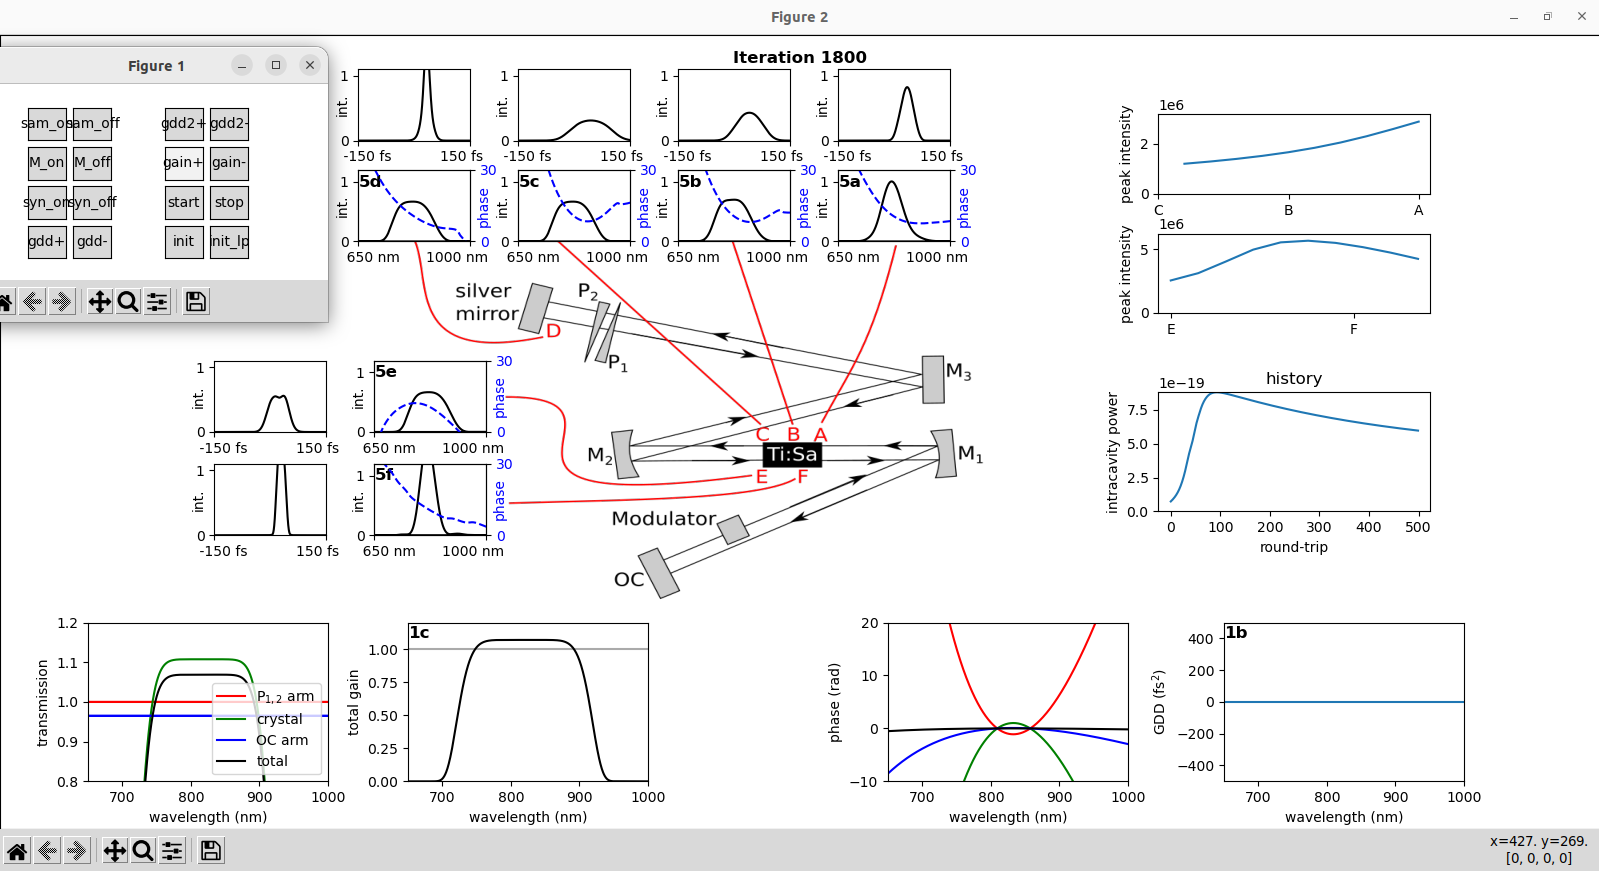
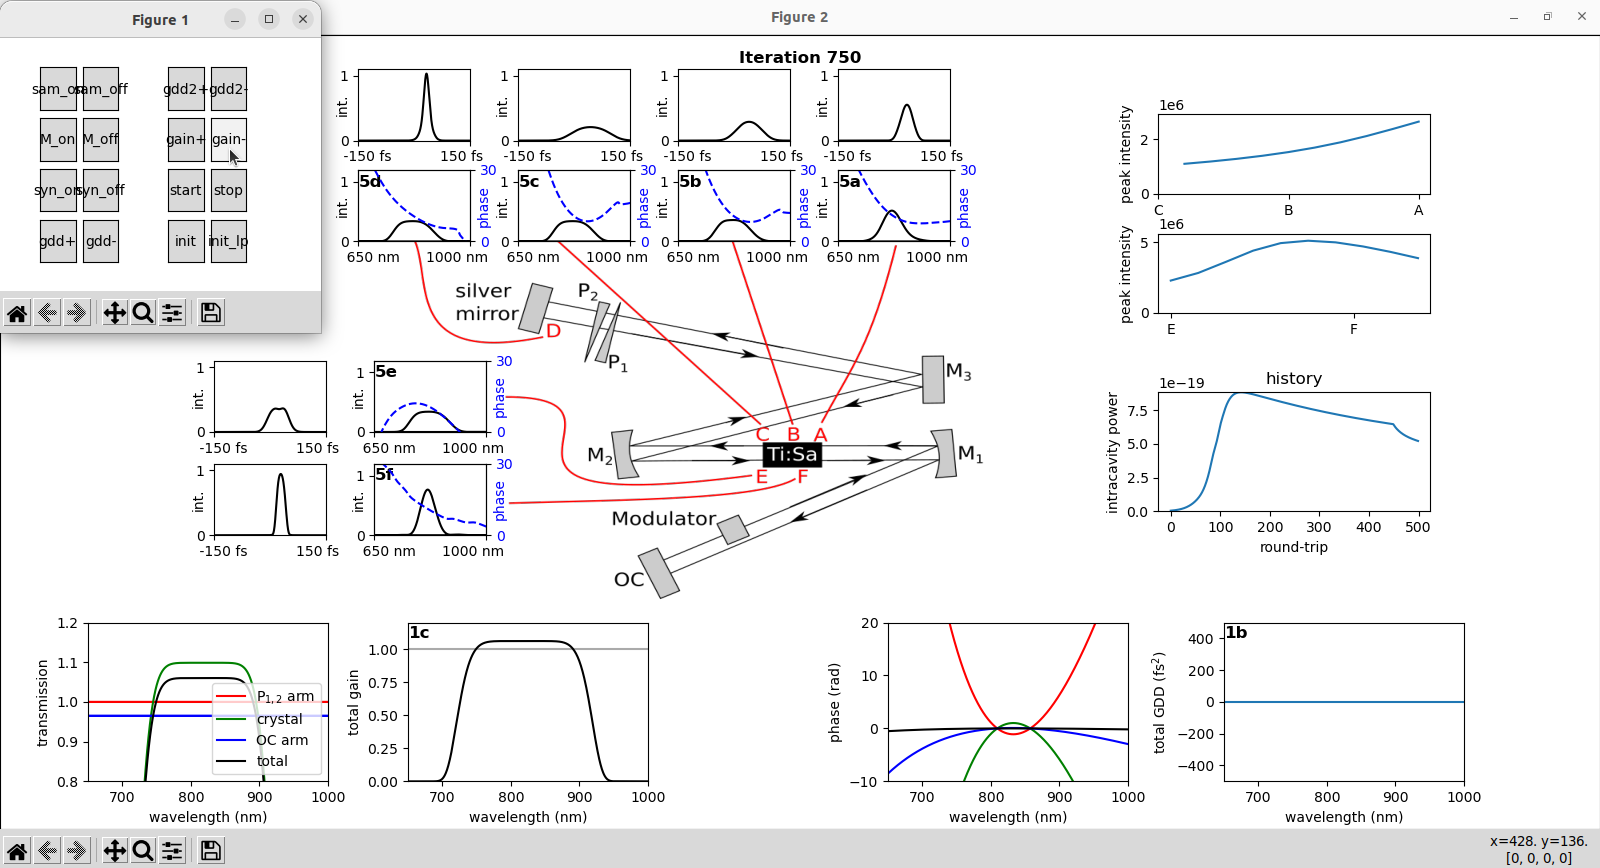
runs on windows + small improvements

diff --git a/tognetti.py b/tognetti.py
@@ -234,7 +234,7 @@ def plotter(plotter_pipe, controller_pipe):
         ax.set_xlim((650,1000))
         ax.set_ylim((-500,500))
         ax.set_xlabel("wavelength (nm)")
-        ax.set_ylabel("GDD (fs$^2$)")
+        ax.set_ylabel("total GDD (fs$^2$)")
         ax.set_title("1b", loc="left", y=.85, weight="bold")
 
         ax = fig.add_subplot(111)
@@ -262,8 +262,8 @@ def plotter(plotter_pipe, controller_pipe):
         ax.set_xlabel("round-trip")
         ax.set_ylabel("intracavity power")
 
-        Anu_max = 0.6e-10
-        At_max = 1513*1.3
+        Anu_max = 0.8e-10
+        At_max = 2.3e3
 
         positions = [
             ([.524,.74, .07, .09], [.524,.867, .07, .09], "5a"),
@@ -320,76 +320,77 @@ def plotter(plotter_pipe, controller_pipe):
 
   plt.show()
 
-Anu = 4e-15 * np.exp(-(nu_env/26e12)**2) * np.exp(-1j*(nu_env/15e12)**2)
-Anu_init = Anu.copy()
+if __name__=="__main__":
+  Anu = 4e-15 * np.exp(-(nu_env/26e12)**2) * np.exp(-1j*(nu_env/15e12)**2)
+  Anu_init = Anu.copy()
 
-plot_pipe, plotter_pipe = multiprocessing.Pipe()
-control_pipe, controller_pipe = multiprocessing.Pipe()
-plotter_process = multiprocessing.Process(target=plotter, args=(plotter_pipe,controller_pipe), daemon=True)
-plotter_process.start()
-print("started")
+  plot_pipe, plotter_pipe = multiprocessing.Pipe()
+  control_pipe, controller_pipe = multiprocessing.Pipe()
+  plotter_process = multiprocessing.Process(target=plotter, args=(plotter_pipe,controller_pipe), daemon=True)
+  plotter_process.start()
+  print("started")
 
-pwrs = [0]*500
-for i in itertools.count():
-  Anu_, Anus, peakints1, peakints2 = roundtrip(nu, Anu)
-  pwr = np.sum(abs(Anu_)**2)
-  if running: Anu = Anu_
+  pwrs = [0]*500
+  for i in itertools.count():
+    Anu_, Anus, peakints1, peakints2 = roundtrip(nu, Anu)
+    pwr = np.sum(abs(Anu_)**2)
+    if running: Anu = Anu_
 
-  pwrs = pwrs[1:]+[pwr]
+    pwrs = pwrs[1:]+[pwr]
 
-  if i%10==0: print(i)
+    if i%10==0: print(i)
 
-  if i%50==0:
-    print("sending")
-    plot_pipe.send(("plot", i,np.array(Anus), peakints1, peakints2, np.array(pwrs), gain_sapphire, phase_sapphire, loss_prismarm, phase_prismarm, loss_OCarm, phase_OCarm))
-    print("sent")
+    if i%50==0:
+      print("sending")
+      plot_pipe.send(("plot", i,np.array(Anus), peakints1, peakints2, np.array(pwrs), gain_sapphire, phase_sapphire, loss_prismarm, phase_prismarm, loss_OCarm, phase_OCarm))
+      print("sent")
 
-    while control_pipe.poll():
-      command = control_pipe.recv()
+      while control_pipe.poll():
+        command = control_pipe.recv()
 
-      if command=="sam_on": 
-        SAM = True
-      elif command=="sam_off": 
-        SAM = False
+        if command=="sam_on":
+          SAM = True
+        elif command=="sam_off":
+          SAM = False
 
-      elif command=="M_on": 
-        modulation = True
-      elif command=="M_off": 
-        modulation = False
+        elif command=="M_on":
+          modulation = True
+        elif command=="M_off":
+          modulation = False
 
-      elif command=="syn_on": 
-        synchronization = True
-      elif command=="syn_off": 
-        synchronization = False
+        elif command=="syn_on":
+          synchronization = True
+        elif command=="syn_off":
+          synchronization = False
 
-      elif command=="gain+": 
-        gain_sapphire *= 1.002
-      elif command=="gain-": 
-        gain_sapphire /= 1.002
+        elif command=="gain+":
+          gain_sapphire *= 1.002
+        elif command=="gain-":
+          gain_sapphire /= 1.002
 
-      elif command=="gdd+": 
-        phase_prismarm += gdd_to_phase(nu, 5e-30)
-      elif command=="gdd-": 
-        phase_prismarm += gdd_to_phase(nu, -5e-30)
+        elif command=="gdd+":
+          phase_prismarm += gdd_to_phase(nu, 5e-30)
+        elif command=="gdd-":
+          phase_prismarm += gdd_to_phase(nu, -5e-30)
 
-      elif command=="gdd2+": 
-        phase_OCarm += gdd_to_phase(nu, 5e-30)
-      elif command=="gdd2-": 
-        phase_OCarm -= gdd_to_phase(nu, 5e-30)
+        elif command=="gdd2+":
+          phase_OCarm += gdd_to_phase(nu, 5e-30)
+        elif command=="gdd2-":
+          phase_OCarm -= gdd_to_phase(nu, 5e-30)
 
-      elif command=="start": 
-        running = True
-      elif command=="stop": 
-        running = False
+        elif command=="start":
+          running = True
+        elif command=="stop":
+          running = False
 
-      elif command=="init": 
-        Anu = Anu_init
-      elif command=="init_lp": 
-        Anu = Anu_init * 0.01
-      else:
-        raise ValueError("unknown command {}".format(command))
+        elif command=="init":
+          Anu = Anu_init
+        elif command=="init_lp":
+          Anu = Anu_init * 0.01
+        else:
+          raise ValueError("unknown command {}".format(command))
 
-      print("{} executed".format(command))
+        print("{} executed".format(command))
 
-print("finished")
-plotter_process.join()
+  print("finished")
+  plotter_process.join()

diff --git a/README.md b/README.md
@@ -6,7 +6,7 @@ Follows M. V. Tognetti, M. N. Miranda, and H. M. Crespo, "*Dispersion-managed mo
 
 Dependencies: only numpy, scipy and matplotlib.
 
-Only tested on Ubuntu Linux. It uses the multiprocessing module for plotting and might need changes to run on Windows.
+Tested on Ubuntu Linux and Windows.
 
 Screenshot:
 
